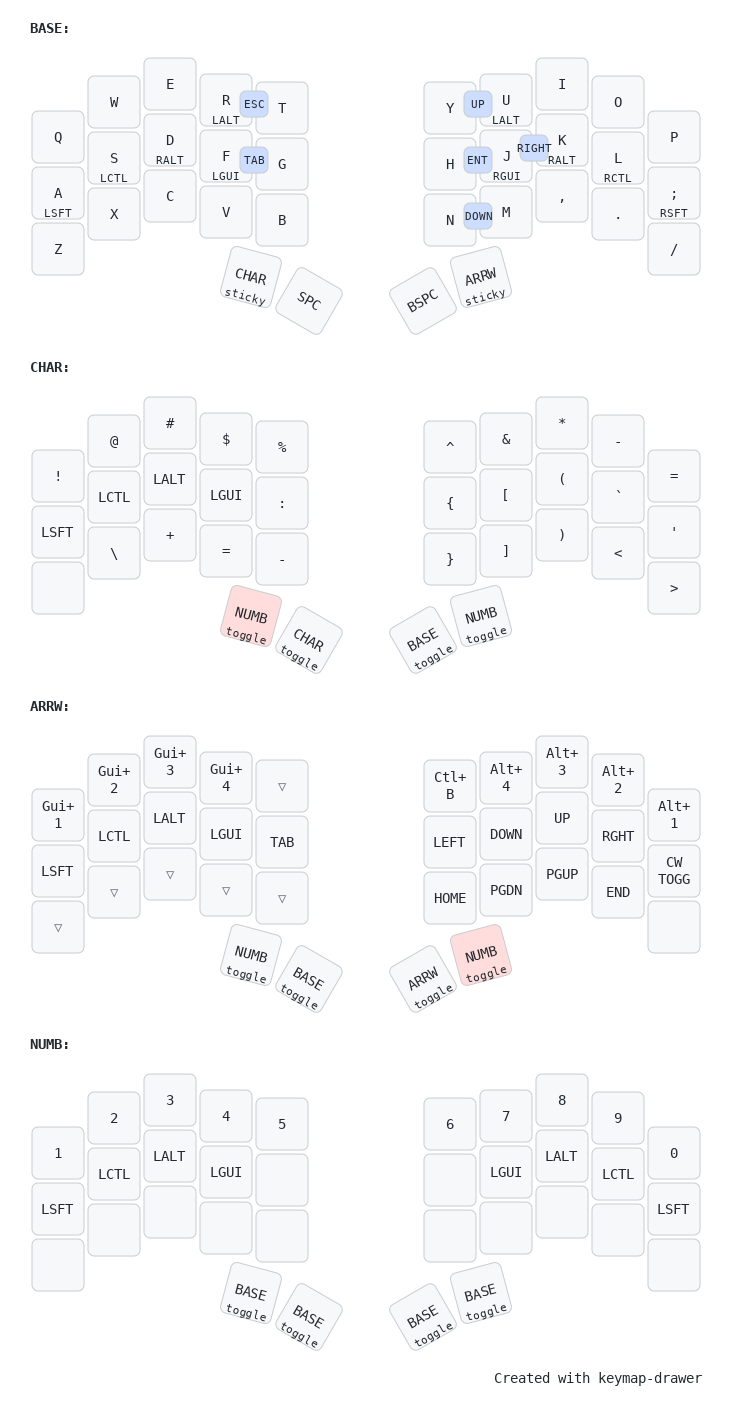
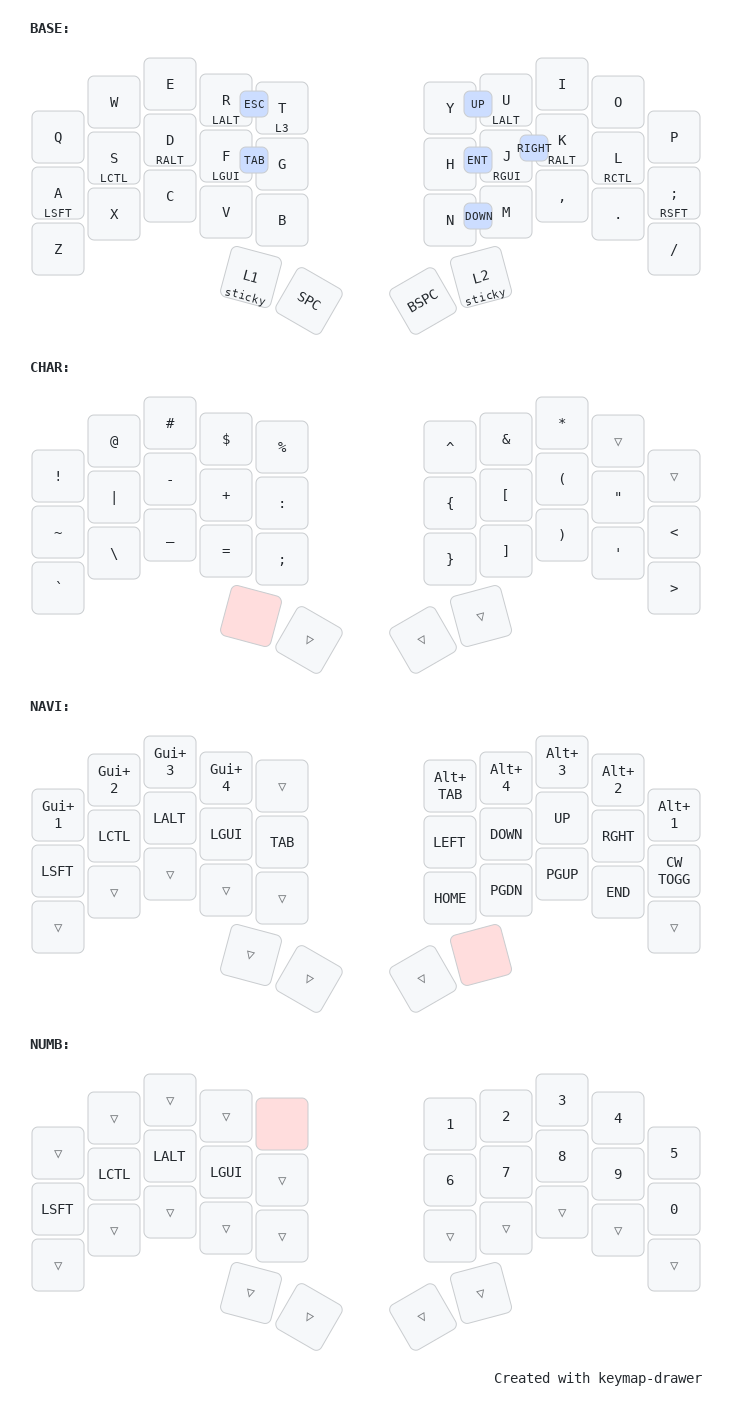
New order little improve

diff --git a/keymap.c b/keymap.c
@@ -8,24 +8,24 @@
 const uint16_t PROGMEM keymaps[][MATRIX_ROWS][MATRIX_COLS] = {
     [BASE] = LAYOUT(
         KC_Q, KC_W, KC_E, LALT_T(KC_R), KC_T,                                                       KC_Y, LALT_T(KC_U), KC_I, KC_O, KC_P,
-        LSFT_T(KC_A), LCTL_T(KC_S), RALT_T(KC_D), LGUI_T(KC_F), KC_G,                               KC_H, RGUI_T(KC_J), RALT_T(KC_K), RCTL_T(KC_L), RSFT_T(KC_SCLN),
+        LSFT_T(KC_A), LCTL_T(KC_S), RALT_T(KC_D), LGUI_T(KC_F), LT(NUMB, KC_G),                     KC_H, RGUI_T(KC_J), RALT_T(KC_K), RCTL_T(KC_L), RSFT_T(KC_SCLN),
         KC_Z, KC_X, KC_C, KC_V, KC_B,                                                               KC_N, KC_M, KC_COMM, KC_DOT, KC_SLSH,
         OSL(SYMB), KC_SPC,                                                                          KC_BSPC, OSL(ARRW)),
     [SYMB] = LAYOUT(
-        KC_EXLM, KC_AT, KC_HASH, KC_DLR, KC_PERC,                                                   KC_CIRC, KC_AMPR, KC_ASTR, KC_MINS, KC_EQL,
-        KC_LSFT, KC_LCTL, KC_LALT, KC_LGUI, KC_COLN,                                                KC_LCBR, KC_LBRC, KC_LPRN, KC_GRV, KC_QUOT,
-        KC_PIPE, KC_BSLS, KC_PLUS, KC_EQL, KC_MINS,                                                 KC_RCBR, KC_RBRC, KC_RPRN, KC_LABK, KC_RABK,
-        TO(NUMB), TO(SYMB),                                                                         TO(BASE), TO(NUMB)),
+        KC_EXLM, KC_AT, KC_HASH, KC_DLR, KC_PERC,                                                   KC_CIRC, KC_AMPR, KC_ASTR, _______, _______,
+        KC_TILDE, KC_PIPE, KC_MINS, KC_PLUS, KC_COLN,                                               KC_LCBR, KC_LBRC, KC_LPRN, KC_DQUO, KC_LABK,
+        KC_GRV, KC_BSLS, KC_UNDS, KC_EQL, KC_SCLN,                                                  KC_RCBR, KC_RBRC, KC_RPRN, KC_QUOT, KC_RABK,
+        _______, _______,                                                                           _______, _______),
     [ARRW] = LAYOUT(
-        LGUI(KC_1), LGUI(KC_2), LGUI(KC_3), LGUI(KC_4), _______,                                    LCTL(KC_B), LALT(KC_4), LALT(KC_3), LALT(KC_2), LALT(KC_1),
+        LGUI(KC_1), LGUI(KC_2), LGUI(KC_3), LGUI(KC_4), _______,                                    LALT(KC_TAB), LALT(KC_4), LALT(KC_3), LALT(KC_2), LALT(KC_1),
         KC_LSFT, KC_LCTL, KC_LALT, KC_LGUI, KC_TAB,                                                 KC_LEFT, KC_DOWN, KC_UP, KC_RGHT, CW_TOGG,
         _______, _______, _______, _______, _______,                                                KC_HOME, KC_PGDN, KC_PGUP, KC_END, _______,
-        TO(NUMB), TO(BASE),                                                                         TO(ARRW), TO(NUMB)),
+        _______, _______,                                                                           _______, _______),
     [NUMB] = LAYOUT(
-        KC_1, KC_2, KC_3, KC_4, KC_5,                                                               KC_6, KC_7, KC_8, KC_9, KC_0,
-        KC_LSFT, KC_LCTL, KC_LALT, KC_LGUI, _______,                                                _______, KC_LGUI, KC_LALT, KC_LCTL, KC_LSFT,
+        _______, _______, _______, _______, _______,                                                KC_1, KC_2, KC_3, KC_4, KC_5,
+        KC_LSFT, KC_LCTL, KC_LALT, KC_LGUI, _______,                                                KC_6, KC_7, KC_8, KC_9, KC_0,
         _______, _______, _______, _______, _______,                                                _______, _______, _______, _______, _______,
-        TO(BASE), TO(BASE),                                                                         TO(BASE), TO(BASE)),
+        _______, _______,                                                                           _______, _______),
 };
 
 enum combos {
@@ -38,7 +38,7 @@ enum combos {
 };
 
 const uint16_t PROGMEM rt_combo[] = {LALT_T(KC_R), KC_T, COMBO_END};
-const uint16_t PROGMEM fg_combo[] = {LGUI_T(KC_F), KC_G, COMBO_END};
+const uint16_t PROGMEM fg_combo[] = {LGUI_T(KC_F), LT(NUMB, KC_G), COMBO_END};
 const uint16_t PROGMEM hj_combo[] = {KC_H, RGUI_T(KC_J), COMBO_END};
 const uint16_t PROGMEM yu_combo[] = {KC_Y, LALT_T(KC_U), COMBO_END};
 const uint16_t PROGMEM nm_combo[] = {KC_N, KC_M, COMBO_END};
